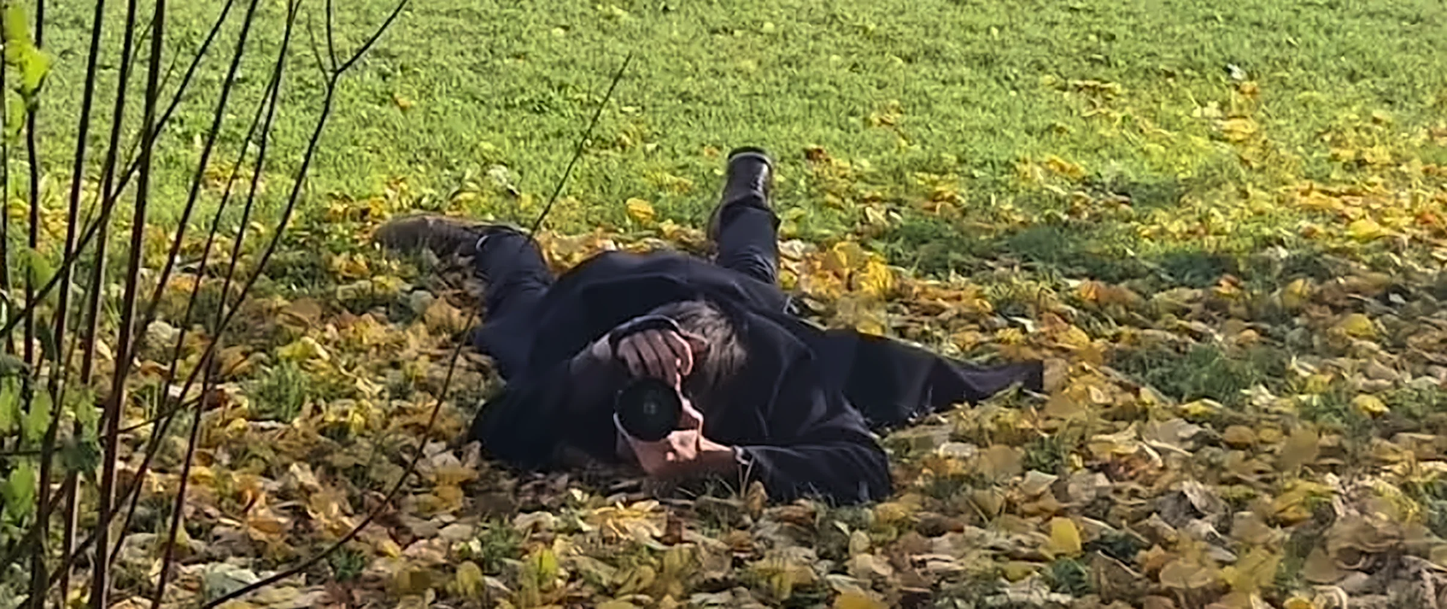
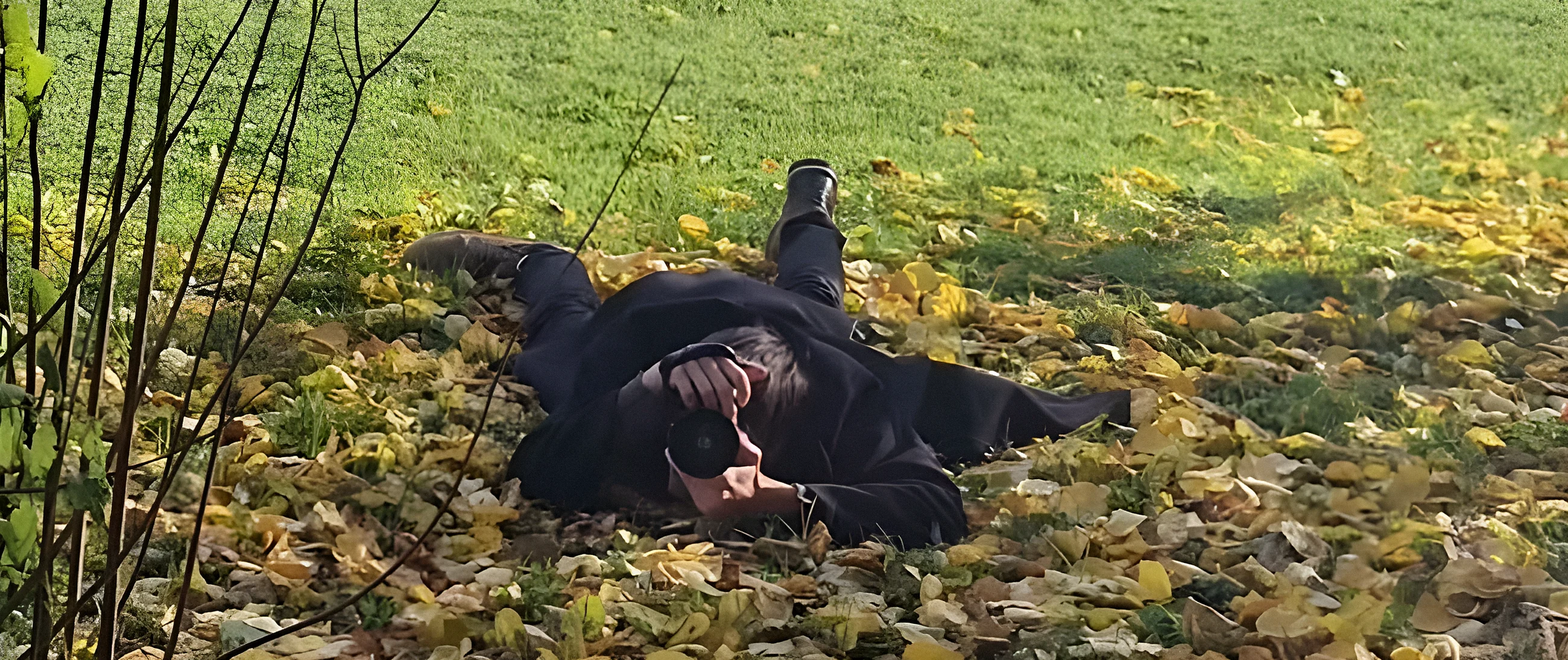
Bannière Photographie : agrandissement Real-ESRGAN, image nette
Claude-Session: https://claude.ai/code/session_01W76daMBhq2fNMUH1MJ81iL

diff --git a/outils/modele.html b/outils/modele.html
@@ -73,7 +73,7 @@
 <div class="eyebrow" data-cms="photo_eyebrow">02 — Lumière &amp; regard</div>
 <h1 class="display" data-cms="photo_titre">Photographie<em>.</em></h1>
 <p class="lead" data-cms="photo_intro">Capturer une ambiance, raconter un instant et porter un regard singulier sur ce qui nous entoure.</p>
-<div class="feature"><img loading="lazy" decoding="async" data-img="photo_banniere" src="assets/img/photos/banniere-photographie.webp" alt="Kéliann Mauger allongé dans les feuilles, appareil photo en main, pendant la séance ST-Line" style="object-position:47% 55%"></div></section>
+<div class="feature"><img loading="lazy" decoding="async" data-img="photo_banniere" src="assets/img/photos/banniere-photographie.webp?v=2" alt="Kéliann Mauger allongé dans les feuilles, appareil photo en main, pendant la séance ST-Line" style="object-position:47% 55%"></div></section>
 <section class="wrap content"><div class="editorial"><div class="eyebrow" data-cms="photo_edito_eyebrow">Mon regard</div><div><p data-cms="photo_edito">Paysages, lumières, détails du quotidien : je photographie ce qui m’arrête, en cherchant la bonne lumière et le bon angle. Une galerie qui s’enrichit au fil de mes sorties.</p><div class="themes-wrap"><div class="eyebrow" data-cms="photo_raccourcis_eyebrow">Albums</div><div class="chips" id="photo-themes"></div></div></div></div></section>
 <section class="wrap content" id="bloc-albums"><div class="eyebrow" data-cms="photo_albums_eyebrow">Portfolios</div><h2 class="section-title" data-cms="photo_albums_titre">Les albums</h2>
 <p class="lead albums-intro" data-cms="photo_albums_intro">Chaque album est une série : une séance, un lieu, une histoire. Ouvre-en un pour le parcourir en grand.</p>
